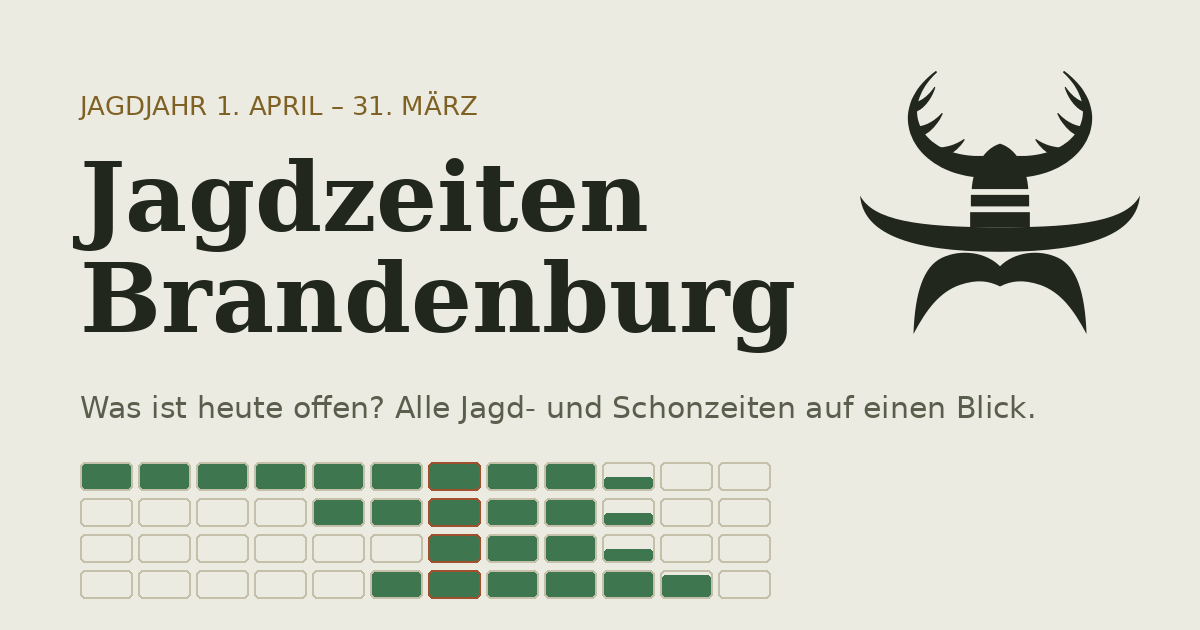
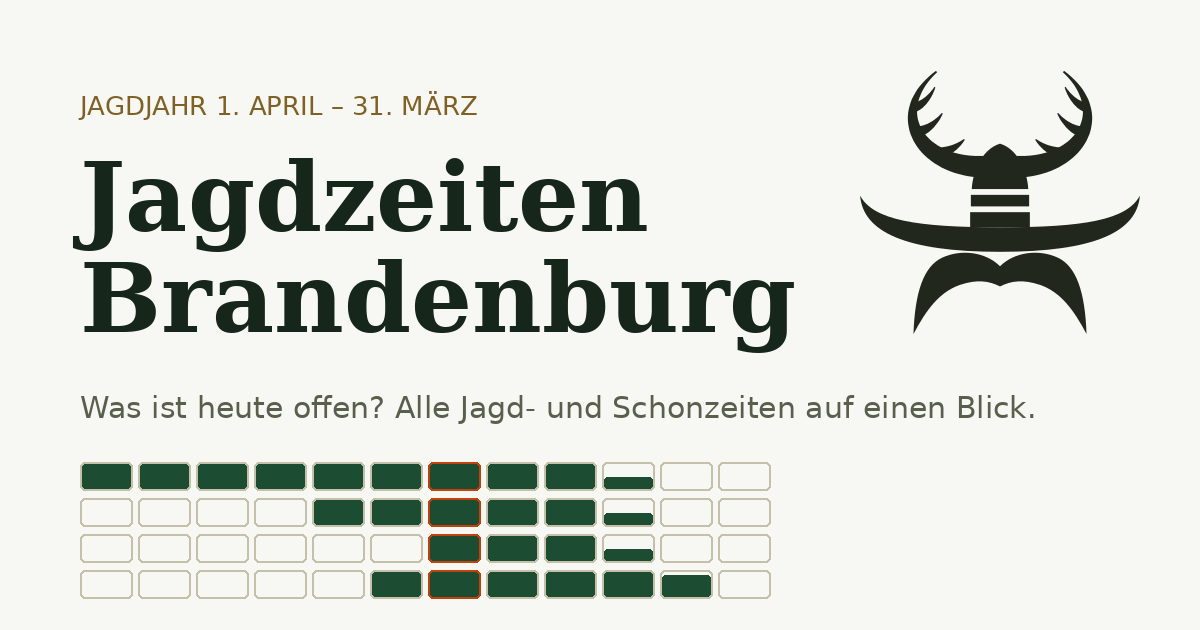
Revier palette: white background, forest-green header band, vivid group colours, blaze-orange today marker
Claude-Session: https://claude.ai/code/session_01474DFhUrgumo8PSPbRvcCT

Changed region(s): [[0.0617, 0.7238, 0.6167, 0.9651]]

diff --git a/index.html b/index.html
@@ -6,7 +6,7 @@
 <meta name="description" content="Was ist heute offen? Alle Jagd- und Schonzeiten in Brandenburg auf einer Zeitachse, mit Countdown und Sonnenzeiten.">
 <meta name="robots" content="noindex, nofollow">
 <meta name="googlebot" content="noindex, nofollow">
-<meta name="theme-color" content="#3e7650">
+<meta name="theme-color" content="#1c4d32">
 <link rel="manifest" href="manifest.webmanifest">
 <link rel="icon" type="image/png" sizes="192x192" href="icon-192.png">
 <link rel="apple-touch-icon" href="apple-touch-icon.png">
@@ -27,27 +27,30 @@
 <style>
   /* Layout: one column; "Heute" card on top, then one timeline (stacked on phones), then share card + sources. */
   :root{
-    --bg:#ecebe1; --surface:#e3e1d3; --surface-2:#d8d5c3; --line:#c4c0aa; --grid:rgba(35,40,29,.10);
-    --ink:#22271d; --ink-dim:#545847; --bar:#356a46; --bar-ink:#f3f2e8; --today:#924420; --brass:#6f5420;
-    --tip-bg:#22271d; --tip-ink:#f1efe2; --new:#a1502d; --new-ink:#fff8f2;
-    --gs:#3e7650; --gh:#9a5a2e; --gf:#3d6a8c; --zebra:rgba(35,40,29,.035);
+    --bg:#f7f8f4; --surface:#ffffff; --surface-2:#eef2ea; --line:#d6ddd0; --grid:rgba(31,72,46,.09);
+    --ink:#17261b; --ink-dim:#4d5c50; --bar:#1f6b3c; --bar-ink:#ffffff; --today:#c2410c; --brass:#7a5a12;
+    --tip-bg:#17261b; --tip-ink:#f4f8f2; --new:#c2410c; --new-ink:#ffffff;
+    --gs:#2f8a4f; --gh:#d06a28; --gf:#2f7bbf; --zebra:rgba(31,72,46,.035);
+    --brand:#1c4d32; --brand-ink:#f4f8f2; --brand-dim:#b9d4bf; --brand-soft:#e3eee5; --brand-soft-ink:#1c4d32;
     --f-display:"Source Serif 4",Georgia,"Times New Roman",serif;
     --f-body:"Public Sans",ui-sans-serif,system-ui,-apple-system,"Segoe UI",sans-serif;
     --f-mono:"JetBrains Mono",ui-monospace,"SF Mono",Menlo,Consolas,monospace;
   }
   @media (prefers-color-scheme: dark){
     :root:not([data-theme="light"]){
-      --bg:#141711; --surface:#1c2016; --surface-2:#252a1d; --line:#394030; --grid:rgba(233,230,214,.09);
-      --ink:#e9e6d6; --ink-dim:#a8ab97; --bar:#6dbb87; --bar-ink:#102016; --today:#e2966c; --brass:#d1a758;
-      --tip-bg:#e9e6d6; --tip-ink:#1a1d14; --new:#e2966c; --new-ink:#1a1209; color-scheme:dark;
-      --gs:#93b86c; --gh:#d8935e; --gf:#7fb0d2; --zebra:rgba(233,230,214,.035);
+      --bg:#0d1610; --surface:#132018; --surface-2:#1a2b20; --line:#2a4232; --grid:rgba(220,235,220,.07);
+      --ink:#e8f0e6; --ink-dim:#a7b9aa; --bar:#5cc283; --bar-ink:#0d1610; --today:#ff7a33; --brass:#d8b15a;
+      --tip-bg:#e8f0e6; --tip-ink:#0d1610; --new:#ff7a33; --new-ink:#0d1610; color-scheme:dark;
+      --gs:#5cc283; --gh:#f0904f; --gf:#5fa8e6; --zebra:rgba(220,235,220,.03);
+      --brand:#1c4d32; --brand-ink:#eef6ec; --brand-dim:#a9c9b0; --brand-soft:#183424; --brand-soft-ink:#cfe5d3;
     }
   }
   :root[data-theme="dark"]{
-    --bg:#141711; --surface:#1c2016; --surface-2:#252a1d; --line:#394030; --grid:rgba(233,230,214,.09);
-    --ink:#e9e6d6; --ink-dim:#a8ab97; --bar:#6dbb87; --bar-ink:#102016; --today:#e2966c; --brass:#d1a758;
-    --tip-bg:#e9e6d6; --tip-ink:#1a1d14; --new:#e2966c; --new-ink:#1a1209; color-scheme:dark;
-    --gs:#93b86c; --gh:#d8935e; --gf:#7fb0d2; --zebra:rgba(233,230,214,.035);
+    --bg:#0d1610; --surface:#132018; --surface-2:#1a2b20; --line:#2a4232; --grid:rgba(220,235,220,.07);
+    --ink:#e8f0e6; --ink-dim:#a7b9aa; --bar:#5cc283; --bar-ink:#0d1610; --today:#ff7a33; --brass:#d8b15a;
+    --tip-bg:#e8f0e6; --tip-ink:#0d1610; --new:#ff7a33; --new-ink:#0d1610; color-scheme:dark;
+    --gs:#5cc283; --gh:#f0904f; --gf:#5fa8e6; --zebra:rgba(220,235,220,.03);
+    --brand:#1c4d32; --brand-ink:#eef6ec; --brand-dim:#a9c9b0; --brand-soft:#183424; --brand-soft-ink:#cfe5d3;
   }
   /* Hochsitz mode: very dark, dim red, keeps night vision at dawn and dusk. Comes last so it wins. */
   :root[data-mode="hochsitz"]{
@@ -55,6 +58,7 @@
     --ink:#d4705a; --ink-dim:#b2563f; --bar:#5e1e12; --bar-ink:#f0a08a; --today:#e0846b; --brass:#c0583c;
     --tip-bg:#2a120c; --tip-ink:#e0846b; --new:#a5472f; --new-ink:#090504; color-scheme:dark;
     --gs:#8a2e1c; --gh:#6e2416; --gf:#a5472f; --zebra:rgba(190,70,45,.04);
+    --brand:#180c09; --brand-ink:#d4705a; --brand-dim:#b2563f; --brand-soft:#180c09; --brand-soft-ink:#d4705a;
   }
   *{box-sizing:border-box}
   html,body{margin:0}
@@ -69,6 +73,11 @@
   header{display:flex;flex-wrap:wrap;gap:1rem 2rem;justify-content:space-between;align-items:flex-end}
   header > div{min-width:0}
   header{display:grid!important;grid-template-columns:minmax(0,1fr) auto;align-items:start}
+  header{background:var(--brand);color:var(--brand-ink);border-radius:14px;padding:1.2rem 1.3rem}
+  header .eyebrow, header .sub{color:var(--brand-dim)}
+  header .logo{color:var(--brand-ink)}
+  header .btn{background:transparent;color:var(--brand-ink);border-color:var(--brand-dim)}
+  header .btn[aria-pressed="true"]{background:var(--brand-ink);color:var(--brand);border-color:var(--brand-ink)}
   .hright{display:flex;flex-direction:column;align-items:flex-end;gap:.6rem}
   .brand{display:flex;gap:1rem;align-items:center;min-width:0}
   .brand > div{min-width:0}
@@ -239,7 +248,8 @@
   /* Bar chart, own visual language: group colours, dates above bar ends, dashed today marker */
   .sect2{border:1px solid var(--line);border-radius:12px;background:var(--surface);overflow:hidden;--label-w:17rem}
   .sect2 + .sect2{margin-top:.8rem}
-  .sect2 > header{padding:.75rem 1rem .55rem;border-bottom:1px solid var(--line);background:var(--surface-2)}
+  .sect2 > header{padding:.75rem 1rem .55rem;border-bottom:1px solid var(--line);background:var(--brand-soft);color:var(--brand-soft-ink);border-radius:0}
+  .sect2 > header h3 small{color:var(--brand-soft-ink);opacity:.75}
   .sect2 > header h3{font:700 1.02rem var(--f-display);margin:0}
   .sect2 > header h3 small{font:400 .74rem var(--f-body);color:var(--ink-dim);margin-left:.4rem}
   .sbody{position:relative;padding:0 1rem .4rem}
@@ -258,11 +268,11 @@
   .mini{display:flex;flex-direction:column;align-items:flex-end;gap:.1rem;flex:none}
   .mini .cd{font-size:.7rem;color:var(--ink-dim);text-align:right;max-width:11rem}
   .trk{position:relative;height:2.2rem}
-  .bz{position:absolute;bottom:.35rem;height:.75rem;border-radius:2px}
+  .bz{position:absolute;bottom:.35rem;height:.85rem;border-radius:3px}
   .bz.gs{background:var(--gs)} .bz.gh{background:var(--gh)} .bz.gf{background:var(--gf)}
   .bz.c{background:repeating-linear-gradient(135deg,var(--gc) 0 3px,transparent 3px 6px);box-shadow:inset 0 0 0 1px var(--gc)}
   .bz.gs.c{--gc:var(--gs)} .bz.gh.c{--gc:var(--gh)} .bz.gf.c{--gc:var(--gf)}
-  .bz .d0,.bz .d1{position:absolute;bottom:calc(100% + 2px);font:500 .62rem var(--f-mono);color:var(--ink);white-space:nowrap;font-variant-numeric:tabular-nums}
+  .bz .d0,.bz .d1{position:absolute;bottom:calc(100% + 2px);font:600 .62rem var(--f-mono);color:var(--ink);white-space:nowrap;font-variant-numeric:tabular-nums}
   .bz .d0{left:0} .bz .d1{right:0}
   .yrl{position:absolute;left:0;bottom:calc(.35rem + .75rem + 2px);font:500 .62rem var(--f-mono);color:var(--ink)}
   .pz{position:absolute;left:0;right:0;bottom:.35rem;height:.75rem;border-radius:2px;background:repeating-linear-gradient(45deg,var(--line) 0 2px,transparent 2px 7px)}
@@ -834,7 +844,7 @@
     modeOn = on;
     if(on) document.documentElement.setAttribute("data-mode","hochsitz"); else document.documentElement.removeAttribute("data-mode");
     var b = document.getElementById("modeToggle"); b.setAttribute("aria-pressed", String(on));
-    var mt = document.querySelector('meta[name="theme-color"]'); if(mt) mt.setAttribute("content", on ? "#090504" : "#3e7650");
+    var mt = document.querySelector('meta[name="theme-color"]'); if(mt) mt.setAttribute("content", on ? "#090504" : "#1c4d32");
     lsSet("jz-mode", on ? "1" : "0");
     var h = document.getElementById("modeHint"); if(h && on) h.hidden = true;
   }

diff --git a/src/artifact.html b/src/artifact.html
@@ -4,27 +4,30 @@
 <style>
   /* Layout: one column; "Heute" card on top, then one timeline (stacked on phones), then share card + sources. */
   :root{
-    --bg:#ecebe1; --surface:#e3e1d3; --surface-2:#d8d5c3; --line:#c4c0aa; --grid:rgba(35,40,29,.10);
-    --ink:#22271d; --ink-dim:#545847; --bar:#356a46; --bar-ink:#f3f2e8; --today:#924420; --brass:#6f5420;
-    --tip-bg:#22271d; --tip-ink:#f1efe2; --new:#a1502d; --new-ink:#fff8f2;
-    --gs:#3e7650; --gh:#9a5a2e; --gf:#3d6a8c; --zebra:rgba(35,40,29,.035);
+    --bg:#f7f8f4; --surface:#ffffff; --surface-2:#eef2ea; --line:#d6ddd0; --grid:rgba(31,72,46,.09);
+    --ink:#17261b; --ink-dim:#4d5c50; --bar:#1f6b3c; --bar-ink:#ffffff; --today:#c2410c; --brass:#7a5a12;
+    --tip-bg:#17261b; --tip-ink:#f4f8f2; --new:#c2410c; --new-ink:#ffffff;
+    --gs:#2f8a4f; --gh:#d06a28; --gf:#2f7bbf; --zebra:rgba(31,72,46,.035);
+    --brand:#1c4d32; --brand-ink:#f4f8f2; --brand-dim:#b9d4bf; --brand-soft:#e3eee5; --brand-soft-ink:#1c4d32;
     --f-display:"Source Serif 4",Georgia,"Times New Roman",serif;
     --f-body:"Public Sans",ui-sans-serif,system-ui,-apple-system,"Segoe UI",sans-serif;
     --f-mono:"JetBrains Mono",ui-monospace,"SF Mono",Menlo,Consolas,monospace;
   }
   @media (prefers-color-scheme: dark){
     :root:not([data-theme="light"]){
-      --bg:#141711; --surface:#1c2016; --surface-2:#252a1d; --line:#394030; --grid:rgba(233,230,214,.09);
-      --ink:#e9e6d6; --ink-dim:#a8ab97; --bar:#6dbb87; --bar-ink:#102016; --today:#e2966c; --brass:#d1a758;
-      --tip-bg:#e9e6d6; --tip-ink:#1a1d14; --new:#e2966c; --new-ink:#1a1209; color-scheme:dark;
-      --gs:#93b86c; --gh:#d8935e; --gf:#7fb0d2; --zebra:rgba(233,230,214,.035);
+      --bg:#0d1610; --surface:#132018; --surface-2:#1a2b20; --line:#2a4232; --grid:rgba(220,235,220,.07);
+      --ink:#e8f0e6; --ink-dim:#a7b9aa; --bar:#5cc283; --bar-ink:#0d1610; --today:#ff7a33; --brass:#d8b15a;
+      --tip-bg:#e8f0e6; --tip-ink:#0d1610; --new:#ff7a33; --new-ink:#0d1610; color-scheme:dark;
+      --gs:#5cc283; --gh:#f0904f; --gf:#5fa8e6; --zebra:rgba(220,235,220,.03);
+      --brand:#1c4d32; --brand-ink:#eef6ec; --brand-dim:#a9c9b0; --brand-soft:#183424; --brand-soft-ink:#cfe5d3;
     }
   }
   :root[data-theme="dark"]{
-    --bg:#141711; --surface:#1c2016; --surface-2:#252a1d; --line:#394030; --grid:rgba(233,230,214,.09);
-    --ink:#e9e6d6; --ink-dim:#a8ab97; --bar:#6dbb87; --bar-ink:#102016; --today:#e2966c; --brass:#d1a758;
-    --tip-bg:#e9e6d6; --tip-ink:#1a1d14; --new:#e2966c; --new-ink:#1a1209; color-scheme:dark;
-    --gs:#93b86c; --gh:#d8935e; --gf:#7fb0d2; --zebra:rgba(233,230,214,.035);
+    --bg:#0d1610; --surface:#132018; --surface-2:#1a2b20; --line:#2a4232; --grid:rgba(220,235,220,.07);
+    --ink:#e8f0e6; --ink-dim:#a7b9aa; --bar:#5cc283; --bar-ink:#0d1610; --today:#ff7a33; --brass:#d8b15a;
+    --tip-bg:#e8f0e6; --tip-ink:#0d1610; --new:#ff7a33; --new-ink:#0d1610; color-scheme:dark;
+    --gs:#5cc283; --gh:#f0904f; --gf:#5fa8e6; --zebra:rgba(220,235,220,.03);
+    --brand:#1c4d32; --brand-ink:#eef6ec; --brand-dim:#a9c9b0; --brand-soft:#183424; --brand-soft-ink:#cfe5d3;
   }
   /* Hochsitz mode: very dark, dim red, keeps night vision at dawn and dusk. Comes last so it wins. */
   :root[data-mode="hochsitz"]{
@@ -32,6 +35,7 @@
     --ink:#d4705a; --ink-dim:#b2563f; --bar:#5e1e12; --bar-ink:#f0a08a; --today:#e0846b; --brass:#c0583c;
     --tip-bg:#2a120c; --tip-ink:#e0846b; --new:#a5472f; --new-ink:#090504; color-scheme:dark;
     --gs:#8a2e1c; --gh:#6e2416; --gf:#a5472f; --zebra:rgba(190,70,45,.04);
+    --brand:#180c09; --brand-ink:#d4705a; --brand-dim:#b2563f; --brand-soft:#180c09; --brand-soft-ink:#d4705a;
   }
   *{box-sizing:border-box}
   html,body{margin:0}
@@ -46,6 +50,11 @@
   header{display:flex;flex-wrap:wrap;gap:1rem 2rem;justify-content:space-between;align-items:flex-end}
   header > div{min-width:0}
   header{display:grid!important;grid-template-columns:minmax(0,1fr) auto;align-items:start}
+  header{background:var(--brand);color:var(--brand-ink);border-radius:14px;padding:1.2rem 1.3rem}
+  header .eyebrow, header .sub{color:var(--brand-dim)}
+  header .logo{color:var(--brand-ink)}
+  header .btn{background:transparent;color:var(--brand-ink);border-color:var(--brand-dim)}
+  header .btn[aria-pressed="true"]{background:var(--brand-ink);color:var(--brand);border-color:var(--brand-ink)}
   .hright{display:flex;flex-direction:column;align-items:flex-end;gap:.6rem}
   .brand{display:flex;gap:1rem;align-items:center;min-width:0}
   .brand > div{min-width:0}
@@ -216,7 +225,8 @@
   /* Bar chart, own visual language: group colours, dates above bar ends, dashed today marker */
   .sect2{border:1px solid var(--line);border-radius:12px;background:var(--surface);overflow:hidden;--label-w:17rem}
   .sect2 + .sect2{margin-top:.8rem}
-  .sect2 > header{padding:.75rem 1rem .55rem;border-bottom:1px solid var(--line);background:var(--surface-2)}
+  .sect2 > header{padding:.75rem 1rem .55rem;border-bottom:1px solid var(--line);background:var(--brand-soft);color:var(--brand-soft-ink);border-radius:0}
+  .sect2 > header h3 small{color:var(--brand-soft-ink);opacity:.75}
   .sect2 > header h3{font:700 1.02rem var(--f-display);margin:0}
   .sect2 > header h3 small{font:400 .74rem var(--f-body);color:var(--ink-dim);margin-left:.4rem}
   .sbody{position:relative;padding:0 1rem .4rem}
@@ -235,11 +245,11 @@
   .mini{display:flex;flex-direction:column;align-items:flex-end;gap:.1rem;flex:none}
   .mini .cd{font-size:.7rem;color:var(--ink-dim);text-align:right;max-width:11rem}
   .trk{position:relative;height:2.2rem}
-  .bz{position:absolute;bottom:.35rem;height:.75rem;border-radius:2px}
+  .bz{position:absolute;bottom:.35rem;height:.85rem;border-radius:3px}
   .bz.gs{background:var(--gs)} .bz.gh{background:var(--gh)} .bz.gf{background:var(--gf)}
   .bz.c{background:repeating-linear-gradient(135deg,var(--gc) 0 3px,transparent 3px 6px);box-shadow:inset 0 0 0 1px var(--gc)}
   .bz.gs.c{--gc:var(--gs)} .bz.gh.c{--gc:var(--gh)} .bz.gf.c{--gc:var(--gf)}
-  .bz .d0,.bz .d1{position:absolute;bottom:calc(100% + 2px);font:500 .62rem var(--f-mono);color:var(--ink);white-space:nowrap;font-variant-numeric:tabular-nums}
+  .bz .d0,.bz .d1{position:absolute;bottom:calc(100% + 2px);font:600 .62rem var(--f-mono);color:var(--ink);white-space:nowrap;font-variant-numeric:tabular-nums}
   .bz .d0{left:0} .bz .d1{right:0}
   .yrl{position:absolute;left:0;bottom:calc(.35rem + .75rem + 2px);font:500 .62rem var(--f-mono);color:var(--ink)}
   .pz{position:absolute;left:0;right:0;bottom:.35rem;height:.75rem;border-radius:2px;background:repeating-linear-gradient(45deg,var(--line) 0 2px,transparent 2px 7px)}
@@ -809,7 +819,7 @@
     modeOn = on;
     if(on) document.documentElement.setAttribute("data-mode","hochsitz"); else document.documentElement.removeAttribute("data-mode");
     var b = document.getElementById("modeToggle"); b.setAttribute("aria-pressed", String(on));
-    var mt = document.querySelector('meta[name="theme-color"]'); if(mt) mt.setAttribute("content", on ? "#090504" : "#3e7650");
+    var mt = document.querySelector('meta[name="theme-color"]'); if(mt) mt.setAttribute("content", on ? "#090504" : "#1c4d32");
     lsSet("jz-mode", on ? "1" : "0");
     var h = document.getElementById("modeHint"); if(h && on) h.hidden = true;
   }

diff --git a/src/src.html b/src/src.html
@@ -4,27 +4,30 @@
 <style>
   /* Layout: one column; "Heute" card on top, then one timeline (stacked on phones), then share card + sources. */
   :root{
-    --bg:#ecebe1; --surface:#e3e1d3; --surface-2:#d8d5c3; --line:#c4c0aa; --grid:rgba(35,40,29,.10);
-    --ink:#22271d; --ink-dim:#545847; --bar:#356a46; --bar-ink:#f3f2e8; --today:#924420; --brass:#6f5420;
-    --tip-bg:#22271d; --tip-ink:#f1efe2; --new:#a1502d; --new-ink:#fff8f2;
-    --gs:#3e7650; --gh:#9a5a2e; --gf:#3d6a8c; --zebra:rgba(35,40,29,.035);
+    --bg:#f7f8f4; --surface:#ffffff; --surface-2:#eef2ea; --line:#d6ddd0; --grid:rgba(31,72,46,.09);
+    --ink:#17261b; --ink-dim:#4d5c50; --bar:#1f6b3c; --bar-ink:#ffffff; --today:#c2410c; --brass:#7a5a12;
+    --tip-bg:#17261b; --tip-ink:#f4f8f2; --new:#c2410c; --new-ink:#ffffff;
+    --gs:#2f8a4f; --gh:#d06a28; --gf:#2f7bbf; --zebra:rgba(31,72,46,.035);
+    --brand:#1c4d32; --brand-ink:#f4f8f2; --brand-dim:#b9d4bf; --brand-soft:#e3eee5; --brand-soft-ink:#1c4d32;
     --f-display:"Source Serif 4",Georgia,"Times New Roman",serif;
     --f-body:"Public Sans",ui-sans-serif,system-ui,-apple-system,"Segoe UI",sans-serif;
     --f-mono:"JetBrains Mono",ui-monospace,"SF Mono",Menlo,Consolas,monospace;
   }
   @media (prefers-color-scheme: dark){
     :root:not([data-theme="light"]){
-      --bg:#141711; --surface:#1c2016; --surface-2:#252a1d; --line:#394030; --grid:rgba(233,230,214,.09);
-      --ink:#e9e6d6; --ink-dim:#a8ab97; --bar:#6dbb87; --bar-ink:#102016; --today:#e2966c; --brass:#d1a758;
-      --tip-bg:#e9e6d6; --tip-ink:#1a1d14; --new:#e2966c; --new-ink:#1a1209; color-scheme:dark;
-      --gs:#93b86c; --gh:#d8935e; --gf:#7fb0d2; --zebra:rgba(233,230,214,.035);
+      --bg:#0d1610; --surface:#132018; --surface-2:#1a2b20; --line:#2a4232; --grid:rgba(220,235,220,.07);
+      --ink:#e8f0e6; --ink-dim:#a7b9aa; --bar:#5cc283; --bar-ink:#0d1610; --today:#ff7a33; --brass:#d8b15a;
+      --tip-bg:#e8f0e6; --tip-ink:#0d1610; --new:#ff7a33; --new-ink:#0d1610; color-scheme:dark;
+      --gs:#5cc283; --gh:#f0904f; --gf:#5fa8e6; --zebra:rgba(220,235,220,.03);
+      --brand:#1c4d32; --brand-ink:#eef6ec; --brand-dim:#a9c9b0; --brand-soft:#183424; --brand-soft-ink:#cfe5d3;
     }
   }
   :root[data-theme="dark"]{
-    --bg:#141711; --surface:#1c2016; --surface-2:#252a1d; --line:#394030; --grid:rgba(233,230,214,.09);
-    --ink:#e9e6d6; --ink-dim:#a8ab97; --bar:#6dbb87; --bar-ink:#102016; --today:#e2966c; --brass:#d1a758;
-    --tip-bg:#e9e6d6; --tip-ink:#1a1d14; --new:#e2966c; --new-ink:#1a1209; color-scheme:dark;
-    --gs:#93b86c; --gh:#d8935e; --gf:#7fb0d2; --zebra:rgba(233,230,214,.035);
+    --bg:#0d1610; --surface:#132018; --surface-2:#1a2b20; --line:#2a4232; --grid:rgba(220,235,220,.07);
+    --ink:#e8f0e6; --ink-dim:#a7b9aa; --bar:#5cc283; --bar-ink:#0d1610; --today:#ff7a33; --brass:#d8b15a;
+    --tip-bg:#e8f0e6; --tip-ink:#0d1610; --new:#ff7a33; --new-ink:#0d1610; color-scheme:dark;
+    --gs:#5cc283; --gh:#f0904f; --gf:#5fa8e6; --zebra:rgba(220,235,220,.03);
+    --brand:#1c4d32; --brand-ink:#eef6ec; --brand-dim:#a9c9b0; --brand-soft:#183424; --brand-soft-ink:#cfe5d3;
   }
   /* Hochsitz mode: very dark, dim red, keeps night vision at dawn and dusk. Comes last so it wins. */
   :root[data-mode="hochsitz"]{
@@ -32,6 +35,7 @@
     --ink:#d4705a; --ink-dim:#b2563f; --bar:#5e1e12; --bar-ink:#f0a08a; --today:#e0846b; --brass:#c0583c;
     --tip-bg:#2a120c; --tip-ink:#e0846b; --new:#a5472f; --new-ink:#090504; color-scheme:dark;
     --gs:#8a2e1c; --gh:#6e2416; --gf:#a5472f; --zebra:rgba(190,70,45,.04);
+    --brand:#180c09; --brand-ink:#d4705a; --brand-dim:#b2563f; --brand-soft:#180c09; --brand-soft-ink:#d4705a;
   }
   *{box-sizing:border-box}
   html,body{margin:0}
@@ -46,6 +50,11 @@
   header{display:flex;flex-wrap:wrap;gap:1rem 2rem;justify-content:space-between;align-items:flex-end}
   header > div{min-width:0}
   header{display:grid!important;grid-template-columns:minmax(0,1fr) auto;align-items:start}
+  header{background:var(--brand);color:var(--brand-ink);border-radius:14px;padding:1.2rem 1.3rem}
+  header .eyebrow, header .sub{color:var(--brand-dim)}
+  header .logo{color:var(--brand-ink)}
+  header .btn{background:transparent;color:var(--brand-ink);border-color:var(--brand-dim)}
+  header .btn[aria-pressed="true"]{background:var(--brand-ink);color:var(--brand);border-color:var(--brand-ink)}
   .hright{display:flex;flex-direction:column;align-items:flex-end;gap:.6rem}
   .brand{display:flex;gap:1rem;align-items:center;min-width:0}
   .brand > div{min-width:0}
@@ -216,7 +225,8 @@
   /* Bar chart, own visual language: group colours, dates above bar ends, dashed today marker */
   .sect2{border:1px solid var(--line);border-radius:12px;background:var(--surface);overflow:hidden;--label-w:17rem}
   .sect2 + .sect2{margin-top:.8rem}
-  .sect2 > header{padding:.75rem 1rem .55rem;border-bottom:1px solid var(--line);background:var(--surface-2)}
+  .sect2 > header{padding:.75rem 1rem .55rem;border-bottom:1px solid var(--line);background:var(--brand-soft);color:var(--brand-soft-ink);border-radius:0}
+  .sect2 > header h3 small{color:var(--brand-soft-ink);opacity:.75}
   .sect2 > header h3{font:700 1.02rem var(--f-display);margin:0}
   .sect2 > header h3 small{font:400 .74rem var(--f-body);color:var(--ink-dim);margin-left:.4rem}
   .sbody{position:relative;padding:0 1rem .4rem}
@@ -235,11 +245,11 @@
   .mini{display:flex;flex-direction:column;align-items:flex-end;gap:.1rem;flex:none}
   .mini .cd{font-size:.7rem;color:var(--ink-dim);text-align:right;max-width:11rem}
   .trk{position:relative;height:2.2rem}
-  .bz{position:absolute;bottom:.35rem;height:.75rem;border-radius:2px}
+  .bz{position:absolute;bottom:.35rem;height:.85rem;border-radius:3px}
   .bz.gs{background:var(--gs)} .bz.gh{background:var(--gh)} .bz.gf{background:var(--gf)}
   .bz.c{background:repeating-linear-gradient(135deg,var(--gc) 0 3px,transparent 3px 6px);box-shadow:inset 0 0 0 1px var(--gc)}
   .bz.gs.c{--gc:var(--gs)} .bz.gh.c{--gc:var(--gh)} .bz.gf.c{--gc:var(--gf)}
-  .bz .d0,.bz .d1{position:absolute;bottom:calc(100% + 2px);font:500 .62rem var(--f-mono);color:var(--ink);white-space:nowrap;font-variant-numeric:tabular-nums}
+  .bz .d0,.bz .d1{position:absolute;bottom:calc(100% + 2px);font:600 .62rem var(--f-mono);color:var(--ink);white-space:nowrap;font-variant-numeric:tabular-nums}
   .bz .d0{left:0} .bz .d1{right:0}
   .yrl{position:absolute;left:0;bottom:calc(.35rem + .75rem + 2px);font:500 .62rem var(--f-mono);color:var(--ink)}
   .pz{position:absolute;left:0;right:0;bottom:.35rem;height:.75rem;border-radius:2px;background:repeating-linear-gradient(45deg,var(--line) 0 2px,transparent 2px 7px)}
@@ -785,7 +795,7 @@
     modeOn = on;
     if(on) document.documentElement.setAttribute("data-mode","hochsitz"); else document.documentElement.removeAttribute("data-mode");
     var b = document.getElementById("modeToggle"); b.setAttribute("aria-pressed", String(on));
-    var mt = document.querySelector('meta[name="theme-color"]'); if(mt) mt.setAttribute("content", on ? "#090504" : "#3e7650");
+    var mt = document.querySelector('meta[name="theme-color"]'); if(mt) mt.setAttribute("content", on ? "#090504" : "#1c4d32");
     lsSet("jz-mode", on ? "1" : "0");
     var h = document.getElementById("modeHint"); if(h && on) h.hidden = true;
   }

diff --git a/src/build.py b/src/build.py
@@ -8,7 +8,7 @@ import qrcode, qrcode.image.svg
 from PIL import Image, ImageDraw, ImageFont
 
 URL = "https://cocoscodes.github.io/jagdzeiten-brandenburg/"
-GREEN, PAPER, INK, RUST = (62,118,80), (236,235,225), (34,39,29), (161,80,45)
+GREEN, PAPER, INK, RUST = (28,77,50), (247,248,244), (23,38,27), (194,65,12)
 SERIF = "/usr/share/fonts/truetype/dejavu/DejaVuSerif-Bold.ttf"
 SANS = "/usr/share/fonts/truetype/dejavu/DejaVuSans.ttf"
 
@@ -84,7 +84,7 @@ og.save(os.path.join(out, "og.png"))
 manifest = {
   "name": "Jagdzeiten Brandenburg", "short_name": "Jagdzeiten",
   "start_url": "./", "scope": "./", "display": "standalone",
-  "background_color": "#ecebe1", "theme_color": "#3e7650", "lang": "de",
+  "background_color": "#f7f8f4", "theme_color": "#1c4d32", "lang": "de",
   "icons": [{"src": "icon-192.png", "sizes": "192x192", "type": "image/png"},
             {"src": "icon-512.png", "sizes": "512x512", "type": "image/png"},
             {"src": "icon-512.png", "sizes": "512x512", "type": "image/png", "purpose": "maskable"}]
@@ -100,7 +100,7 @@ head = f"""<!doctype html>
 <meta name="description" content="{desc}">
 <meta name="robots" content="noindex, nofollow">
 <meta name="googlebot" content="noindex, nofollow">
-<meta name="theme-color" content="#3e7650">
+<meta name="theme-color" content="#1c4d32">
 <link rel="manifest" href="manifest.webmanifest">
 <link rel="icon" type="image/png" sizes="192x192" href="icon-192.png">
 <link rel="apple-touch-icon" href="apple-touch-icon.png">
